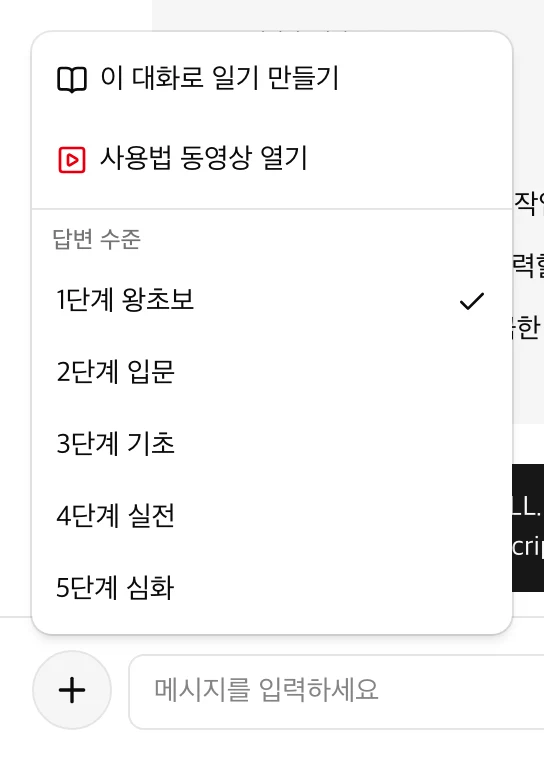
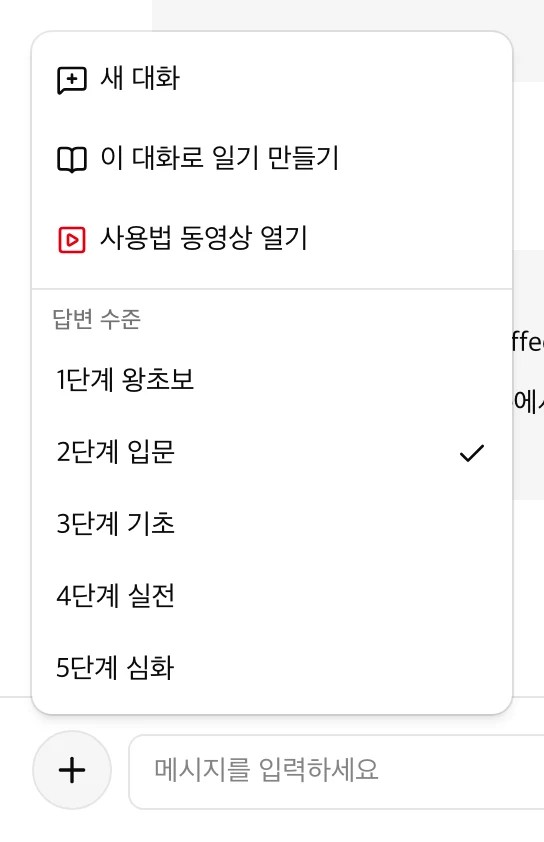
feat(coach): 입력칸 '+' 메뉴 맨 위에 '새 대화' — 누르면 빈 대화를 시작하고 입력칸에 커서
- 목록의 '새 대화'와 같은 동작(맨 위 빈 대화 재사용, 연달아 눌러도 하나). 폰에서 서랍을 열지 않아도 된다
- 지금 대화가 비어 있으면 흐리게 하고 '지금 빈 대화예요'
- 누른 순간과 메뉴가 닫힐 때(finalFocus) 입력칸에 포커스를 줘 바로 쓸 수 있게 했다
- 사용 안내 '+ 메뉴' 글과 사진 3장 교체, E2E 2개 추가

diff --git a/frontend/components/guide/sections-features.tsx b/frontend/components/guide/sections-features.tsx
@@ -44,7 +44,7 @@ export function ChatSection() {
                             rows={[
                                 [
                                     <Ui key="1">새 대화</Ui>,
-                                    "빈 대화를 시작합니다. 맨 위 대화가 아직 비어 있으면 새로 만들지 않고 그 대화를 다시 엽니다. 주제가 바뀌면 새 대화로 나누는 것이 일기 만들기에 좋습니다.",
+                                    "빈 대화를 시작합니다. 맨 위 대화가 아직 비어 있으면 새로 만들지 않고 그 대화를 다시 엽니다. 입력칸 왼쪽 + 메뉴에도 있습니다. 주제가 바뀌면 새 대화로 나누는 것이 일기 만들기에 좋습니다.",
                                 ],
                                 [
                                     "대화 목록",
@@ -95,26 +95,31 @@ export function ChatSection() {
 
             <GuideSub title="+ 메뉴 (입력칸 왼쪽)">
                 <P>
-                    입력칸 왼쪽 <Ui>+</Ui>를 누르면 부가 기능 메뉴가 위로 열립니다. 여기서 일기 초안을 만들고, 시연 영상을 열고, 답변 수준을 바로 바꿉니다.
+                    입력칸 왼쪽 <Ui>+</Ui>를 누르면 부가 기능 메뉴가 위로 열립니다. 여기서 새 대화를 시작하고, 일기 초안을 만들고, 시연 영상을 열고, 답변 수준을
+                    바로 바꿉니다.
                 </P>
                 <FigureRow>
                     <Figure
                         src={chatPlusMenu}
-                        alt="빈 대화에서 연 + 메뉴. ‘이 대화로 일기 만들기’는 흐리게, 아래에 답변 수준 1~5단계 목록"
+                        alt="빈 대화에서 연 + 메뉴. ‘새 대화’와 ‘이 대화로 일기 만들기’는 흐리게, 아래에 답변 수준 1~5단계 목록"
                         size="crop"
-                        caption="빈 대화에서는 ‘이 대화로 일기 만들기’가 흐립니다(답변이 있어야 만들 수 있음)."
+                        caption="빈 대화에서는 ‘새 대화’(이미 빈 대화)와 ‘이 대화로 일기 만들기’(답변이 있어야 만들 수 있음)가 흐립니다."
                     />
                     <Figure
                         src={chatPlusMenuActive}
-                        alt="대화 중 연 + 메뉴. ‘이 대화로 일기 만들기’가 활성, 답변 수준에 1단계 체크"
+                        alt="대화 중 연 + 메뉴. ‘새 대화’와 ‘이 대화로 일기 만들기’가 활성, 답변 수준에 2단계 체크"
                         size="crop"
-                        caption="답변이 끝난 대화에서는 바로 일기 초안을 만들 수 있습니다. 체크 표시가 지금 쓰는 답변 수준입니다."
+                        caption="답변이 끝난 대화에서는 바로 새 대화를 시작하거나 일기 초안을 만들 수 있습니다. 체크 표시가 지금 쓰는 답변 수준입니다."
                     />
                 </FigureRow>
                 <Table
                     caption="+ 메뉴 항목"
                     head={["항목", "하는 일"]}
                     rows={[
+                        [
+                            <Ui key="0">새 대화</Ui>,
+                            "지금 대화는 그대로 두고 빈 대화를 시작한 뒤 입력칸에 커서를 둡니다. 왼쪽 목록의 ‘새 대화’ 버튼과 같아서 맨 위 대화가 비어 있으면 그 대화를 다시 씁니다. 지금 대화가 비어 있으면 흐립니다.",
+                        ],
                         [
                             <Ui key="1">이 대화로 일기 만들기</Ui>,
                             "지금 열린 대화로 일기 초안을 만들고 일기 화면으로 이동합니다. 답변이 끝난 뒤에만 눌리며, 저장하지 않은 초안이 있으면 바꿀지 먼저 묻습니다.",

diff --git a/frontend/applications/diary-coach/chat-experience.tsx b/frontend/applications/diary-coach/chat-experience.tsx
@@ -3,7 +3,7 @@
 import { useEffect, useRef, useState } from "react"
 import Image from "next/image"
 import { useRouter } from "next/navigation"
-import { ArrowUpRight, BookOpen, LoaderCircle, Plus, SquarePlay } from "lucide-react"
+import { ArrowUpRight, BookOpen, LoaderCircle, MessageSquarePlus, Plus, SquarePlay } from "lucide-react"
 
 import { Button, buttonVariants } from "@/components/ui/button"
 import {
@@ -211,7 +211,22 @@ export function CoachComposerMenu() {
     const draft = useDiaryDraftAction()
     const level = useAnswerLevelChoice()
     const guideVideoUrl = useGuideVideoUrl()
+    const startNewConversation = useChatStore((state) => state.startNewConversation)
+    // 이미 빈 대화면 '새 대화'를 눌러도 바뀌는 것이 없다.
+    const isEmptyChat = useChatStore((state) => state.messages.length === 0 && !state.isStreaming)
     const [open, setOpen] = useState(false)
+    const trigger = useRef<HTMLButtonElement>(null)
+    // '새 대화'를 골랐으면 메뉴가 닫힐 때 + 버튼 대신 메시지 입력칸에 커서를 둔다.
+    const focusComposer = useRef(false)
+    // + 버튼과 메시지 입력칸은 같은 입력 폼 안에 있다(components/chat/message-input.tsx).
+    const composerField = () => trigger.current?.closest("form")?.querySelector("textarea") ?? null
+
+    const startNew = () => {
+        focusComposer.current = true
+        // 폰에서 키보드가 올라오려면 누른 그 순간에 포커스를 줘야 한다.
+        composerField()?.focus()
+        void startNewConversation()
+    }
 
     return (
         <>
@@ -223,6 +238,7 @@ export function CoachComposerMenu() {
                 }}
             >
                 <DropdownMenuTrigger
+                    ref={trigger}
                     render={
                         <Button
                             type="button"
@@ -238,7 +254,24 @@ export function CoachComposerMenu() {
                 >
                     {draft.isDrafting ? <LoaderCircle className="size-5 animate-spin" /> : <Plus className="size-5" />}
                 </DropdownMenuTrigger>
-                <DropdownMenuContent side="top" align="start" sideOffset={8} className="w-60">
+                <DropdownMenuContent
+                    side="top"
+                    align="start"
+                    sideOffset={8}
+                    className="w-60"
+                    finalFocus={() => {
+                        if (!focusComposer.current) return true
+                        focusComposer.current = false
+                        return composerField() ?? true
+                    }}
+                >
+                    <DropdownMenuItem disabled={isEmptyChat} onClick={startNew} className="min-h-10 px-2">
+                        <MessageSquarePlus />
+                        <span className="flex flex-col">
+                            <span>새 대화</span>
+                            {isEmptyChat && <span className="text-xs text-muted-foreground">지금 빈 대화예요</span>}
+                        </span>
+                    </DropdownMenuItem>
                     <DropdownMenuItem disabled={!draft.canDraft} onClick={draft.requestDraft} className="min-h-10 px-2">
                         <BookOpen />
                         <span className="flex flex-col">

diff --git a/frontend/e2e/coach.spec.ts b/frontend/e2e/coach.spec.ts
@@ -379,3 +379,46 @@ test("채팅 상단(코치 소개·사용법 동영상·안내)은 빈 대화에
     await expect(intro).toHaveCount(0)
     await expect(guide).toHaveCount(0)
 })
+
+test("+ 메뉴의 '새 대화'는 빈 대화에서 흐리고, 대화 중에는 빈 대화를 시작해 입력칸에 커서를 둔다", async ({ page }) => {
+    await signUp(page, "coach-new-chat")
+    const newChat = page.getByRole("menuitem", { name: /새 대화/ })
+    const list = page.getByRole("navigation", { name: "대화 목록" })
+
+    // 빈 대화에서는 눌러도 바뀌는 것이 없어 흐리다.
+    await composerMenu(page).click()
+    await expect(newChat).toBeDisabled()
+    await expect(newChat).toContainText("지금 빈 대화예요")
+    await page.keyboard.press("Escape")
+
+    await sendChatMessage(page, "첫 번째 학습 대화")
+    await composerMenu(page).click()
+    await expect(newChat).toBeEnabled()
+    await expect(newChat).not.toContainText("지금 빈 대화예요")
+    await newChat.click()
+    await expect(page.getByRole("menu")).toHaveCount(0)
+    await expect(page.locator('[data-role="user"]')).toHaveCount(0)
+    await expect(page.getByLabel("메시지")).toBeFocused()
+    await expect(list.getByRole("button", { name: "새 대화", exact: true })).toHaveCount(1)
+
+    // 커서가 있는 입력칸에 바로 쓰면 새 대화로 간다.
+    await page.keyboard.type("두 번째 학습 대화")
+    await page.keyboard.press("Enter")
+    await expect(list.getByRole("button", { name: "두 번째 학습 대화", exact: true })).toBeVisible()
+    await expect(list.getByRole("button", { name: "첫 번째 학습 대화", exact: true })).toBeVisible()
+    await expect(page.locator('[data-role="user"]')).toHaveText(["두 번째 학습 대화"])
+})
+
+test("폰에서는 서랍을 열지 않고 + 메뉴로 새 대화를 시작한다", async ({ page }) => {
+    await page.setViewportSize({ width: 390, height: 844 })
+    await signUp(page, "coach-new-chat-phone")
+    await sendChatMessage(page, "폰에서 보낸 첫 질문")
+    await composerMenu(page).click()
+    const newChat = page.getByRole("menuitem", { name: /새 대화/ })
+    await expect(newChat).toBeInViewport()
+    await newChat.click()
+    await expect(page.locator('[data-role="user"]')).toHaveCount(0)
+    await expect(page.getByRole("heading", { name: /구름 코치와 풀어볼까요/ })).toBeVisible()
+    await expect(page.getByRole("dialog", { name: "대화 목록" })).toHaveCount(0)
+    await expect(page.getByLabel("메시지")).toBeFocused()
+})

diff --git a/frontend/components/guide/sections-more.tsx b/frontend/components/guide/sections-more.tsx
@@ -101,7 +101,10 @@ export function MobileSection() {
                 caption="폰에서 달라지는 점"
                 head={["PC", "폰"]}
                 rows={[
-                    ["대화 목록이 왼쪽에 붙어 있음", "헤더 왼쪽 끝 버튼을 누르면 서랍처럼 열림. 대화를 고르면 닫힘"],
+                    [
+                        "대화 목록이 왼쪽에 붙어 있음",
+                        "헤더 왼쪽 끝 버튼을 누르면 서랍처럼 열림. 대화를 고르면 닫힘. 새 대화는 서랍을 열지 않고 입력칸 왼쪽 + 메뉴에서도 시작",
+                    ],
                     ["헤더에 로고 이름과 내 이름", "로고 아이콘과 사람 아이콘만. 가운데 캐치프레이즈에 자리를 줌"],
                     ["학습장이 목록·본문 두 칸", "한 번에 한 칸. 주제를 누르면 본문, 뒤로 가면 목록"],
                     ["입력칸 3줄까지 자람", "같음. 키보드가 올라와도 입력칸이 가려지지 않음"],

diff --git a/harness/progress.md b/harness/progress.md
@@ -1125,3 +1125,19 @@ Base UI 메뉴는 이미 체크된 항목을 눌러도 `onValueChange`를 부르
   너비 조절(끌기·새로고침·키보드·두 번 누르기·목록 접기), 메뉴로 삭제, 폰 서랍 이름 바꾸기(입력 16px·Esc에 서랍 유지), 터치 태블릿 '…' 보임
 **검증**: `./scripts/verify.sh` 통과(백엔드 311 passed, 커버리지 98.28%), E2E 전체 diary-coach 90 passed·starter 3 passed. PC·폰 화면 캡처로 메뉴·입력칸·끄는 중 모습 확인
 **운영 적용**: 마이그레이션·설정 없음. 백엔드 규칙이 바뀌어 푸시 뒤 Vercel과 백엔드(CI → Render) 배포를 함께 확인
+
+## 2026-11-01 · 세션 42 · 입력칸 '+' 메뉴에 '새 대화'
+
+**요청**: "채팅 입력창 앞 '+' 버튼 메뉴에 '새 대화' 추가하고 구현". 사용자 결정(질문 답): 메뉴 맨 위, 빈 대화에서는 흐리게 + 안내,
+누른 뒤 입력칸에 커서, 사용 안내의 '+ 메뉴' 사진 3장은 로컬에서 새로 찍기.
+**한 일**
+- `applications/diary-coach/chat-experience.tsx` `CoachComposerMenu`: 맨 위 '새 대화'(MessageSquarePlus 아이콘). 목록의 '새 대화'와 같은
+  `startNewConversation`을 불러 맨 위 빈 대화를 다시 쓰고 연달아 눌러도 하나만 만든다. 지금 대화가 비어 있으면 흐리게 하고 '지금 빈 대화예요'
+- 누르면 메시지 입력칸에 커서: 폰 키보드가 올라오도록 누른 순간 포커스를 주고, 메뉴가 닫힐 때도(Base UI `finalFocus`) 입력칸으로 보낸다.
+  입력칸은 + 버튼과 같은 폼 안에서 찾는다
+- 안내: 사용 안내 '+ 메뉴' 소단원(소개·사진 설명·항목 표 첫 줄), 채팅 요소 표 '새 대화', 폰 단원 표, 샘플 README 흐름 2번.
+  사진 `public/guide/chat-plus-menu.webp`·`chat-plus-menu-active.webp`·`m-chat-plus-menu.webp`는 로컬 빌드에서 다시 찍었다
+  (PC 1280 @2x 원래와 같은 자르기, 폰 390 @3x → 900px, WebP q88). 대화 중 화면은 예시 대화를 브라우저 응답에만 끼워 넣어 찍었다(서버 저장 없음)
+- 테스트: `e2e/coach.spec.ts` 2개(빈 대화에서 흐림·안내 / 대화 중 새 대화 시작·입력칸 커서·바로 보내면 새 대화로 / 폰에서 서랍 없이 시작)
+**검증**: `./scripts/verify.sh frontend` 통과, E2E 전체(diary-coach) 92 passed. starter에는 + 메뉴가 없어 영향 없음
+**운영 적용**: 마이그레이션·설정 없음. 프론트만 바뀌어 푸시하면 Vercel 자동 배포

diff --git a/samples/diary-coach/README.md b/samples/diary-coach/README.md
@@ -12,7 +12,7 @@
 
 ## 사용 흐름
 1. 채팅에서 코치와 오늘 배운 것을 이야기한다
-2. 입력칸 왼쪽 **+ 메뉴**의 **이 대화로 일기 만들기**를 누르면 현재 대화가 일기 초안이 되고 작성 화면이 열린다. 채팅 상단의 **사용법 동영상 열기**는 안내 영상(유튜브)을 새 탭으로 연다.
+2. 입력칸 왼쪽 **+ 메뉴**의 **이 대화로 일기 만들기**를 누르면 현재 대화가 일기 초안이 되고 작성 화면이 열린다. 같은 메뉴 맨 위 **새 대화**는 목록의 '새 대화'와 같이 빈 대화를 시작한다(폰에서 서랍을 열지 않아도 됨). 채팅 상단의 **사용법 동영상 열기**는 안내 영상(유튜브)을 새 탭으로 연다.
    자동 저장하지 않으며, 저장하지 않은 일기가 있으면 교체 여부를 확인한다.
    기존처럼 일기 화면에서 **일기로 만들 채팅**을 고르고 "초안 만들기"를 눌러도 된다
    - 제목: `오늘 날짜 + 핵심 단어`. 같은 날 두 번째 일기부터 `2026-10-20(2) …`처럼 순번이 붙는다
